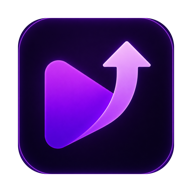
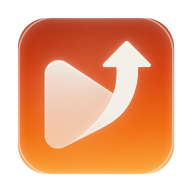
update plugin assets

diff --git a/assets/views.css b/assets/views.css
@@ -45,21 +45,6 @@
 	width: 100%;
 }
 
-.daymark-item-player {
-	display: block;
-	width: 100%;
-}
-
-.daymark-item-player--video {
-	background: #000;
-	max-height: 24rem;
-}
-
-.daymark-item-player--audio {
-	margin: 0.875rem 1rem 0;
-	width: calc(100% - 2rem);
-}
-
 .daymark-item-body {
 	display: flex;
 	flex-direction: column;
@@ -69,8 +54,8 @@
 
 .daymark-badge {
 	align-self: flex-start;
-	background: rgba(122, 0, 223, 0.12);
-	color: #5300be;
+	background: rgba(201, 58, 6, 0.12);
+	color: #9e2a02;
 	border-radius: 999px;
 	font-size: 0.6875rem;
 	font-weight: 600;
@@ -124,15 +109,6 @@
 	overflow-wrap: anywhere;
 }
 
-.daymark-item-caption--note {
-	border-left: 3px solid #7a00df;
-	font-size: 1.1875rem;
-	font-weight: 500;
-	line-height: 1.45;
-	margin: 0;
-	padding: 1rem 1rem 1rem 0.875rem;
-}
-
 .daymark-item-stats {
 	display: flex;
 	gap: 1rem;
@@ -150,7 +126,7 @@
 }
 
 .daymark-stat--active {
-	color: #7a00df;
+	color: #c93a06;
 	font-weight: 600;
 }
 
@@ -169,9 +145,5 @@
 @media (max-width: 480px) {
 	.daymark-item-body {
 		padding: 0.75rem 0.875rem 0.875rem;
-	}
-
-	.daymark-item-caption--note {
-		padding: 0.875rem 0.875rem 0.875rem 0.75rem;
 	}
 }

diff --git a/assets/app.css b/assets/app.css
@@ -13,10 +13,10 @@
 	--daymark-text-primary: #111111;
 	--daymark-text-secondary: #666666;
 	--daymark-text-muted: #999999;
-	--daymark-accent: #7a00df;
-	--daymark-accent-deep: #5300be;
-	--daymark-accent-light: #d7a7ff;
-	--daymark-accent-wash: rgba(122, 0, 223, 0.12);
+	--daymark-accent: #c93a06;
+	--daymark-accent-deep: #9e2a02;
+	--daymark-accent-light: #ffd9a8;
+	--daymark-accent-wash: rgba(201, 58, 6, 0.12);
 	--daymark-accent-fg: #ffffff;
 	--daymark-success: #1a7f37;
 	--daymark-error: #b42318;
